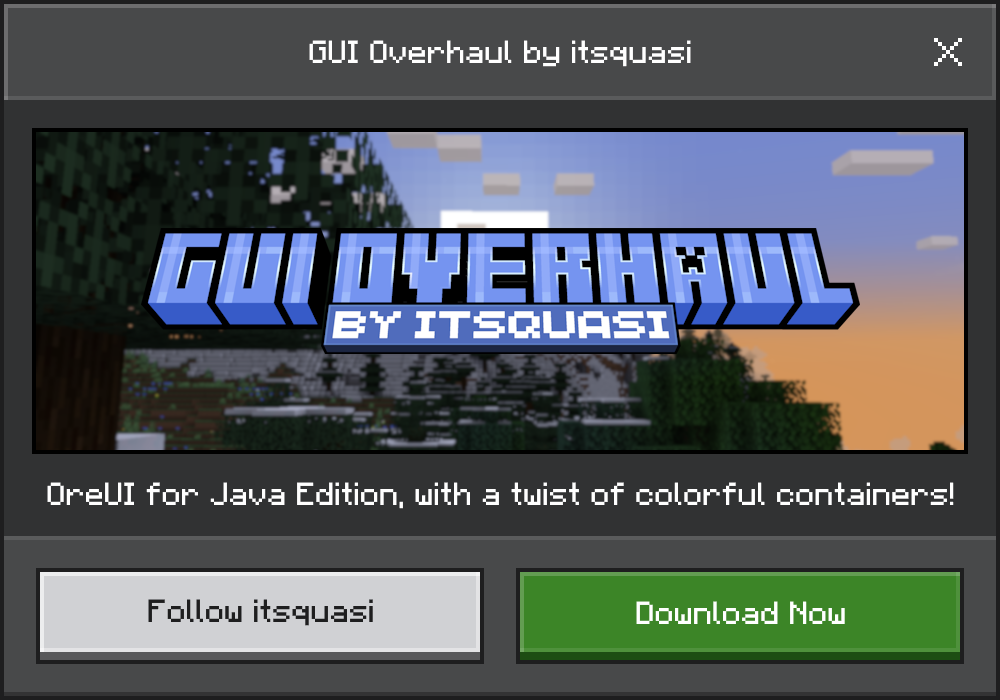
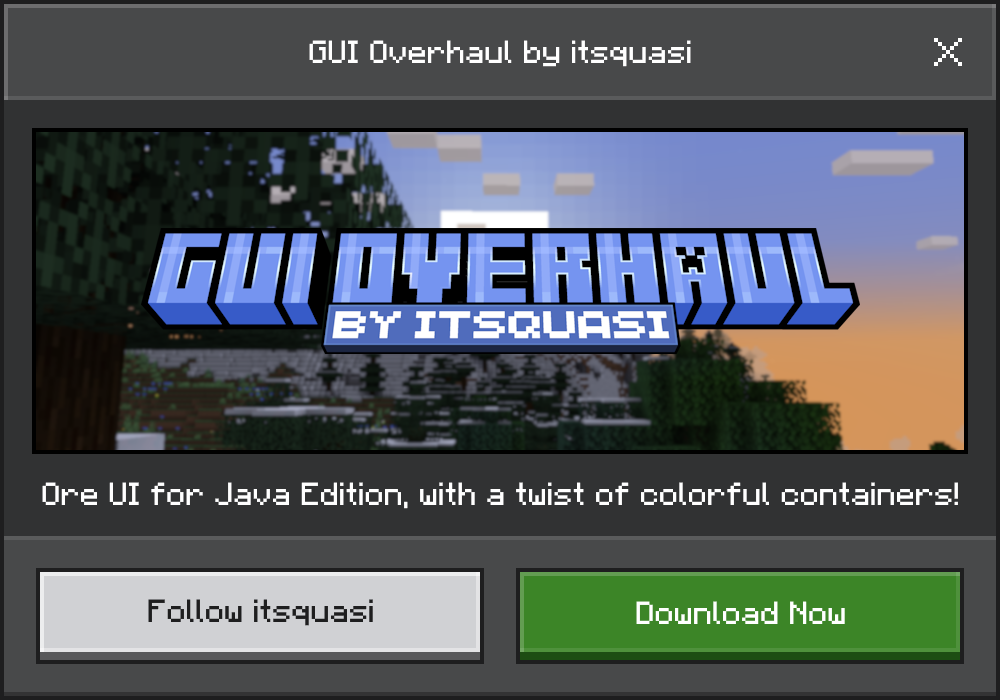
Minor adjustments

Changed region(s): [[0.031, 0.69, 0.961, 0.72]]

diff --git a/README.md b/README.md
@@ -1,5 +1,5 @@
 # GUI Overhaul
-Completely overhaul the GUI of Minecraft Java Edition.
+Ore UI for Java Edition, with a twist of colorful containers!
 
 ## 👋Introduction
 
